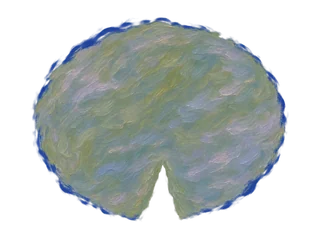
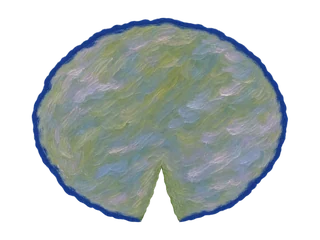
feat(pond): redraw ukiyo-e's dragon and Monet's clue
The brief asked for two pictures again where the first could be
bettered. Both keep the first one's name.

public/pond/ukiyo/dragon.webp: drawn at its true proportions, so it
is no longer stretched 1.35 times across; glaring eyes under heavy
brows, branching antlers clear of the mane, larger legs at x 424 and
x 1010.

public/pond/monet/clue.webp: the cobalt rim is one loaded stroke
about 6 pixels wide, broken only at the notch, so it reads at the
160 px it is shown at.

Neither has been looked at in the running pond; the brief's tables
say what came out and what is weak.

Changed region(s): [[0.0938, 0.0583, 0.9062, 0.9333], [0.6875, 0.3792, 0.7188, 0.4083], [0.3438, 0.6125, 0.375, 0.6417]]

diff --git a/docs/agents/pond.md b/docs/agents/pond.md
@@ -359,7 +359,7 @@ their dabs through the mask, a visitor's own or the pond's koi's own.
 | `dragonfly.webp` | 512 × 256, 21 KB | Two dragonflies in 256-pixel cells, from above, head to the right, each a blue-green body stroke and four pale lilac wing dabs (140 × 228). The two differ little, and the wings are broad for a dragonfly's. |
 | `dove.webp`, `spider.webp` | 768 × 256, 16 KB and 46 KB | Three poses each in 256-pixel cells, from above, facing right, at one scale. The dove in white with lilac and cream: sitting (113 × 54), wings half open (113 × 146), flying (116 × 234). The spider in umber with a touch of orange: sitting (185 × 127), walking (215 × 178), jumping (229 × 234). Both are painted more finely than a few dabs: closer to a small oil study than to the panel's own handling. |
 | `afloat.webp` | 1024 × 512, 100 KB | What drifts on the water through the year, in a 4 × 2 grid of 256-pixel cells, from above, each fitted to its cell (not at one scale) with 16 pixels clear. Top row: two spring petals, two autumn leaves. Bottom row: a snow crystal, a frost flower, two flying things, heads to the right. Here: a pink petal and a white one, a willow leaf in ochre, a poplar leaf in rust; the crystal and the frost flower in white and lilac; a dragonfly and a white butterfly. Painted more finely than a few dabs. |
-| `clue.webp` | 320 × 240, 19 KB | One lily pad from above in the painting's dabs and greens (about 256 × 204, centred, its notch at the bottom), its rim alone laid in the bowl's cobalt as a broken brush line, open at the notch; the edge feathers to nothing. Painted by the image model. The cobalt line is dashes more than one loaded stroke, and thin at this size. |
+| `clue.webp` | 320 × 240, 18 KB | One lily pad from above in the painting's dabs and greens (257 × 206, centred, its notch at the bottom), its rim alone laid in the bowl's cobalt as one loaded stroke about 6 pixels wide, unbroken but at the notch; the edge feathers to nothing. Painted by the image model. The second version: the first one's rim was thin dashes. The cobalt is a little darker than the bowl's (about `#1a3c87`), a thin fringe of green shows inside the notch, and the dabs are more blended than the pond's pads. |
 | `dragon.webp` | 134 KB | The Dragon Gate's dragon in oil: 2048 × 512, head to the left, the spine on y 256, the snout's tip at x 64 and the tail's at x 1984, made by the image model as one straight picture (no joins) and scaled to those two points. Golds and oranges in loaded dabs with no outline, a vermilion crest in short strokes, a mane of orange flames, cream antlers and whiskers. Paint from y 82 to 419: the claws reach 174 pixels from the middle line, past the 150 asked, and will fan a little on a tight turn; legs at x 411 and x 1104. It is modelled more finely than `koi-v2`: a small oil study, not a few strokes. |
 
 #### 青花
@@ -414,7 +414,7 @@ stir that brings it, never on the first screen.
 | `paper.webp` | 512 × 512, 12 KB | Washi grain, greyscale, opaque, light (mean 225 of 255, a spread of about 5), with fine pale fibres; it tiles on all four sides (the edges are crossfaded into each other, and the slow drift of tone is taken out). The grain is fine: meant to be multiplied in at its own size or larger. |
 | `lilies.webp` | 1024 × 512, 84 KB | Eight motifs in a 4 × 2 grid of 256-pixel cells, from above, at one scale, flat colour in a key line with a little paper grain in the fills. Top row: three lotus leaves with a notch (225, 179 and 140 pixels across), an open pink lotus. Bottom row: an open white lotus, a red maple leaf, an orange one, three cherry petals together in one cell. Each is at least 14 pixels clear of its cell's edge. |
 | `afloat.webp` | 1024 × 512, 110 KB | What drifts on the water through the year, as a print draws it, in a 4 × 2 grid of 256-pixel cells, from above, each fitted to its cell (not at one scale) with 16 pixels clear. Top row: two spring petals, two autumn leaves. Bottom row: a snow crystal, a frost flower, two flying things, heads to the right. Here: two cherry petals, a red maple leaf, a yellow ginkgo leaf; the crystal and a frost flower in white with a blue-grey line; a red dragonfly, and a red and yellow butterfly drawn from the side with its wings together. |
-| `dragon.webp` | 89 KB | The Dragon Gate's dragon as a woodblock print: 2048 × 512, head to the left, the spine on y 256, the snout's tip at x 64 and the tail's at x 1984, made by the image model as one straight picture (no joins) and scaled to those two points. A black key line, an indigo body with a vermilion crest down it in cut arcs and a cream edge, a cream muzzle, a vermilion mane and tail flame. Paint from y 153 to 355. It was drawn as thin as a rod, so it is stretched 1.35 times across its width: its eyes are a little oval for it. The legs are small dark claws at x 474 and x 1178, the hind pair behind where the brief puts it; the antlers are lost in the mane and the whiskers short. |
+| `dragon.webp` | 107 KB | The Dragon Gate's dragon as a woodblock print: 2048 × 512, head to the left, the spine on y 256, the snout's tip at x 64 and the tail's at x 1984, made by the image model as one straight picture (no joins) and scaled to those two points, evenly: nothing is stretched. A black key line, an indigo body in rows of cut arc scales with a vermilion crest of lozenges down the spine and a cream edge either side, a cream muzzle with curled nostrils, glaring eyes under heavy black brows, two cream branching antlers swept back clear of a vermilion mane, two whiskers trailing back to x 560, and a vermilion tail flame. Paint from y 106 to 406. The legs are indigo with cream claws, at x 424 and x 1010, reaching 150 pixels from the spine. The second version: the first was drawn as thin as a rod, stretched 1.35 times across, with round eyes, small legs and its antlers lost in the mane. The trunk with its cream edges is about 136 pixels across behind the shoulders, broader than the 100 asked for; the head with its mane is about 255 across; the pupils are still round under the brows, and the crest is one even chain the whole way, which a tight turn may show as beads. |
 | `clue.webp` | 240 × 240, 9 KB | Four flecks of spray close together (the cluster 184 × 178, centred): cream, each a hooked drop of a different size (one large, two middling, one small) in its own dark key line. Painted by the image model. The key line is brushed and uneven and the cream has a little shading: softer than a cut block. |
 
 #### Star chart
@@ -708,15 +708,16 @@ flying thing seen from above (a crane or a butterfly for Dunhuang, a bee or a sw
 drawn in code, and what is still drawn in code that a picture would better is on this list too.
 
 1. **The dragon** of the Dragon Gate, on "The dragon sheet" below: all seven are delivered and in
-   use; what came out is in each look's table (the water's with its dragon boat). Asked again, as
-   a second version if it can be bettered (P2): ukiyo-e's, drawn at its true proportions and not
-   stretched, with a print dragon's fierce eyes under brows in place of round ones, its antlers
-   clear of the mane and its legs a little larger.
+   use; what came out is in each look's table (the water's with its dragon boat). Delivered, to
+   look at in the pond: ukiyo-e's second version, under the first one's name, drawn at its true
+   proportions and not stretched, with a print dragon's fierce eyes under brows in place of round
+   ones, its antlers clear of the mane and its legs a little larger.
 2. **Delivered, to wire in: a third sheet of seals**, `seals-3.webp` (item 10 under "Ink"): the four seals still in the
    brush, and the seals of the small games to come.
 3. **Delivered, to wire in: two more clues, painted** (item 9 under "Ink"): ukiyo-e's and the star chart's, which are still
-   drawn in code. And, if it can be bettered (P2), Monet's again: its cobalt rim as one loaded
-   stroke about 6 pixels wide, broken only at the notch, so it reads at the 160 px it is shown at.
+   drawn in code. Delivered, to look at in the pond: Monet's second version, under the first
+   one's name, its cobalt rim as one loaded stroke about 6 pixels wide, broken only at the notch,
+   so it reads at the 160 px it is shown at.
 4. **Delivered, to wire in: the bug the spider hunts**, `bug.webp` in the water's folder: 128 × 64, two cells of 64, a
    midge seen from above, its wings out in the first cell and beaten back in the second; a dark
    body, pale wings you can see through. It is drawn about 12 pixels long, so it must be bold. Now
